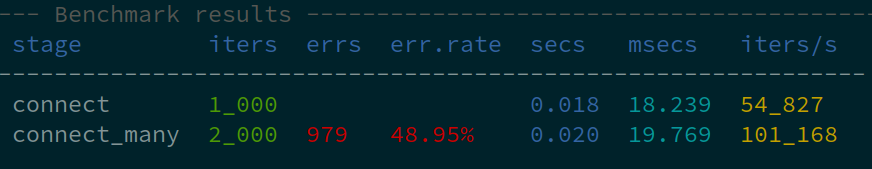
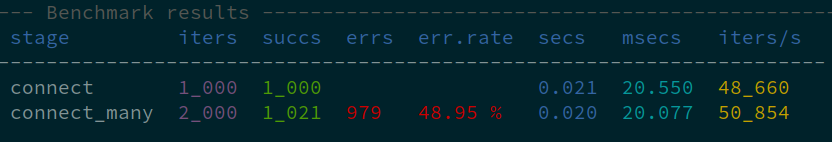
success col

diff --git a/src/lib.rs b/src/lib.rs
@@ -145,8 +145,8 @@
 //! The *benchmark_stage* attribute has **check** option, which behaves similarly.
 //! If used, the function body MUST (not return but) END with a bool as well.
 //! 
-//! If any errors are reported, additional two columns appear, error count and
-//! error rate:
+//! If any errors are reported, additional three columns appear, success count,
+//! error count and error rate:
 //! 
 //! ![Simple benchmark result](https://raw.githubusercontent.com/alttch/bma-benchmark/main/errors.png)
 //! 
@@ -445,7 +445,7 @@ impl StagedBenchmark {
         }
         let mut header = vec!["stage", "iters"];
         if have_errs {
-            header.extend(["errs", "err.rate"]);
+            header.extend(["succs", "errs", "err.rate"]);
         }
         header.extend(["secs", "msecs", "iters/s"]);
         let eta_speed = eta.map(|v| {
@@ -458,10 +458,16 @@ impl StagedBenchmark {
             let elapsed = result.elapsed.as_secs_f64();
             let mut cells = vec![
                 cell!(stage),
-                cell!(format_number!(result.iterations).green()),
+                cell!(format_number!(result.iterations).magenta()),
             ];
             if have_errs {
+                let success = result.iterations - result.errors;
                 cells.extend([
+                    cell!(if success > 0 {
+                        format_number!(success).green()
+                    } else {
+                        <_>::default()
+                    }),
                     cell!(if result.errors > 0 {
                         format_number!(result.errors).red()
                     } else {
@@ -469,7 +475,7 @@ impl StagedBenchmark {
                     }),
                     cell!(if result.errors > 0 {
                         format!(
-                            "{:.2}%",
+                            "{:.2} %",
                             (f64::from(result.errors) / f64::from(result.iterations) * 100.0)
                         )
                         .red()
@@ -630,9 +636,11 @@ impl Benchmark {
         let result = self.result(iterations, errors);
         let elapsed = result.elapsed.as_secs_f64();
         format!(
-            "{}\nIterations: {}, Errors: {}{}\nElapsed:\n {} secs ({} msecs)\n {} iters/s",
+            "{}\nIterations: {}, success: {}, errors: {}{}\n\
+            Elapsed:\n {} secs ({} msecs)\n {} iters/s",
             result_separator!(),
-            format_number!(result.iterations).green(),
+            format_number!(result.iterations).magenta(),
+            format_number!(result.iterations - result.errors).green(),
             if result.errors > 0 {
                 format_number!(result.errors).red()
             } else {
@@ -642,7 +650,7 @@ impl Benchmark {
                 format!(
                     ", error rate: {}",
                     format!(
-                        "{:.2}%",
+                        "{:.2} %",
                         (f64::from(result.errors) / f64::from(result.iterations) * 100.0)
                     )
                     .red()

diff --git a/README.md b/README.md
@@ -145,8 +145,8 @@ benchmark_check!(10_000_000, {
 The *benchmark_stage* attribute has **check** option, which behaves similarly.
 If used, the function body MUST (not return but) END with a bool as well.
 
-If any errors are reported, additional two columns appear, error count and
-error rate:
+If any errors are reported, additional three columns appear, success count,
+error count and error rate:
 
 ![Simple benchmark result](https://raw.githubusercontent.com/alttch/bma-benchmark/main/errors.png)
 
